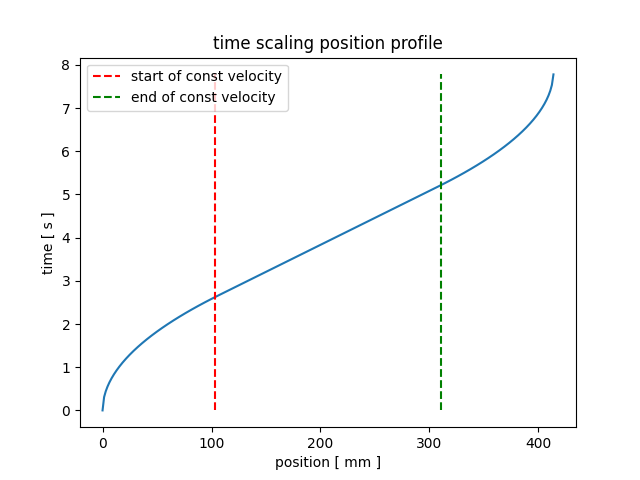
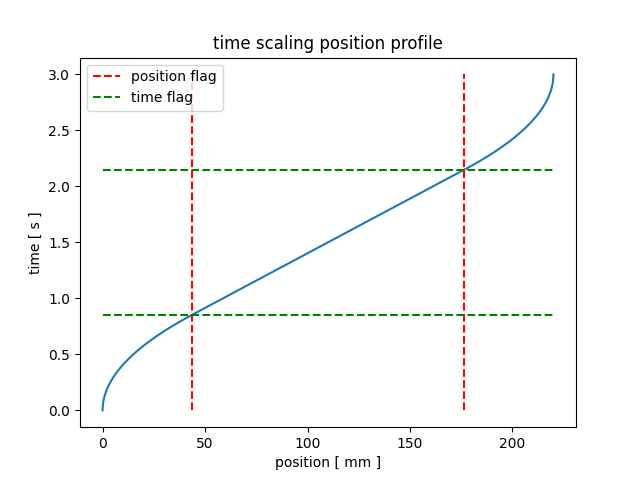
some plots

diff --git a/script/trajectory_planning/time_scaling_example.py b/script/trajectory_planning/time_scaling_example.py
@@ -6,16 +6,16 @@ from configuration_functions import trajectory_configuration_block
 
 
 pos_start = np.array([-200, 0, -280])       # at the end of cycle pos_start_new = pos_end_prev
-pos_end = np.array([200, 0, -280])          # should be input to function goto()
+pos_end = np.array([20, 0, -280])          # should be input to function goto()
 
 
-trj_data = trajectory_configuration_block("quick", pos_start, pos_end)
+trj_data = trajectory_configuration_block("quick", pos_start, pos_end, 3)
 
 
 # initialization of variables
 pos_current = pos_start
+delta_s = 0.001
 
-delta_s = trj_data["delta_s"]
 x_acc_flag = trj_data["x_acc_flag"]
 x_total = trj_data["x_total"]
 t_acc_flag = trj_data["t_acc_flag"]
@@ -40,20 +40,12 @@ for s_next in s_instance:
     ## next via point
     pos_next = bezier_curve(s_next, trj_data["via_points"])
 
-    ##
-    ##  inverse geometry -> collisions? -> n,m steps
-    ##
-
     delta_x = np.linalg.norm(pos_next-pos_current)
     x_travelled += delta_x
 
     ## time
     t_travelled = time_optimal_bang_bang_profile(x_travelled, x_acc_flag, x_total, t_acc_flag, t_total, velocity, acceleration)
     delta_t = t_travelled - t_current
-
-    ##
-    ##  send n,m steps and delta_t to microcontroller
-    ##
 
     # update current values
     t_current = t_travelled
@@ -64,6 +56,8 @@ for s_next in s_instance:
     # plot data
     pos_profile_data[:, plot_data_index] = np.array([x_travelled, t_travelled])
     plot_data_index += 1
+
+
 
 if t_total-t_acc_flag == 0:
     print("NO constant velocity profile")
@@ -87,12 +81,12 @@ print("s instance len", int(1/delta_s))
 plot_pos_profile = plt.figure("position profile")
 plot_pos_profile = plt.plot(pos_profile_data[0, :], pos_profile_data[1, :])
 
-plot_pos_profile = plt.vlines(x_acc_flag, 0, t_travelled, "r", "--", label="pos start of const velocity")
-plot_pos_profile = plt.vlines(x_total-x_acc_flag, 0, t_travelled, "r", "--", label="pos end of const velocity")
+plot_pos_profile = plt.vlines(x_acc_flag, 0, t_travelled, "r", "--", label="position flag")
+plot_pos_profile = plt.vlines(x_total-x_acc_flag, 0, t_travelled, "r", "--")
 
 
-plot_pos_profile = plt.hlines(t_acc_flag, 0, x_travelled, "g", "--", label="time start of const velocity")
-plot_pos_profile = plt.hlines(t_total-t_acc_flag, 0, x_travelled, "g", "--", label="time end of const velocity")
+plot_pos_profile = plt.hlines(t_acc_flag, 0, x_travelled, "g", "--", label="time flag")
+plot_pos_profile = plt.hlines(t_total-t_acc_flag, 0, x_travelled, "g", "--")
 
 
 plot_pos_profile = plt.title("time scaling position profile")
